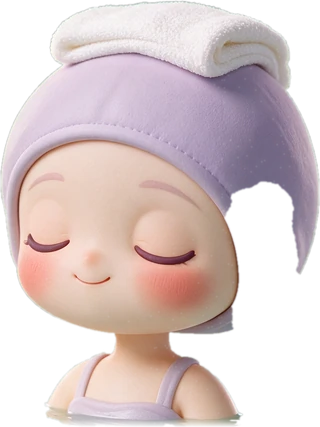
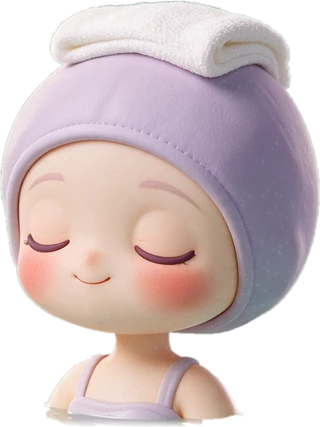
Keepers on open floor and in the depth order; Mind ends a soak; the hood whole
Codex HOLD on the shopkeepers and the soak (22 Oct), five P2s:
- Coach Ren, Hana, Ben and Ms Clara stood on scenery (the banister base, the window trim beside a spare pet spot, the
  display platform, the sofa). Each now stands on open floor, every candidate composited on its plate at full size and
  checked by eye: Ren in front of the rolled yoga mats, Hana between the rug and the foot of the stairs, Ben on the rug's
  front-left clear of the bench's stock, Ms Clara in front of the rug by the way in. Each has a walking block.
- Keepers join the depth sort by their feet (never as a second solid; the block is in the layout) and rank themselves
  when drawn, so she and the stock pass in front of and behind them.
- Opening Mind (or the garden bench) emits the activity event, so a soak or a sit by the water ends first.
- Keyboard focus on a keeper the view does not show brings it into view, as for a pin or a prop.
- The tudung soak picture re-cut with the hood's lavender kept as hers; the first cut bit into its right flap.
Tests: every keeper's feet on the drawn floor, outside the furniture, at least 3 from every place she stands (the
stock's stand points too) and never taking away the way to any stock (checked against the old spots: it flags three of
the four); browser checks for the depth order both ways at the grocer and for Mind ending a soak; the soak check waits
for her picture's 0.6 s fade instead of reading it mid-fade.

diff --git a/ovu-keepers.js b/ovu-keepers.js
@@ -9,17 +9,17 @@
   var KEEPERS = {
     'lane-grocer': { id: 'grocer', name: 'Auntie Lin', role: 'the grocer', img: 'keeper-grocer.webp', x: 36, y: 60.5, flip: false, block: { x0: 32, x1: 40, y0: 57.5, y1: 62 },
       lines: ['The kangkong came in fresh this morning.', 'Rice, tofu, garlic, coconut: whatever your kitchen needs.', 'Take your time. Shopping slowly is a nice way to spend a minute.', 'Seeds swap at the rack; a good trade is a happy trade.'] },
-    'lane-boutique': { id: 'boutique', name: 'Mira', role: 'the boutique owner', img: 'keeper-boutique.webp', x: 19.5, y: 69.5, flip: false, block: null, /* in the fitting alcove before its curtain, a fitting assistant (by the counter she stood on the stairs) */
+    'lane-boutique': { id: 'boutique', name: 'Mira', role: 'the boutique owner', img: 'keeper-boutique.webp', x: 19.5, y: 69.5, flip: false, block: null, alcove: true, /* in the fitting alcove before its curtain, a fitting assistant (by the counter she stood on the stairs) */
       lines: ['Try anything on. The mirror here is a kind one.', 'Every outfit on the rails comes in your size.', 'New arrivals come in as soon as they are sewn.', 'That colour suits you.'] },
-    'lane-gym': { id: 'gym', name: 'Coach Ren', role: 'the gym coach', img: 'keeper-gym.webp', x: 57.5, y: 60, flip: true, block: { x0: 55.5, x1: 59.5, y0: 58.5, y1: 61.5 }, /* on the floor before the stairs, not on the bottom step */
+    'lane-gym': { id: 'gym', name: 'Coach Ren', role: 'the gym coach', img: 'keeper-gym.webp', x: 40.5, y: 53.2, flip: false, block: { x0: 38.5, x1: 42.5, y0: 51.8, y1: 54.6 }, /* on the floor in front of the rolled yoga mats, between the little plant and the rolls (the old spot had his feet on the banister's base, Codex 22 Oct) */
       lines: ['Move at your own pace. Nothing here counts unless you log it.', 'Water break whenever you like.', 'Rest days are part of training too.', 'The mats are free. So is the stretching.'] },
     'lane': { id: 'fish', name: 'Uncle Hamid', role: 'the tackle seller', img: 'keeper-fish.webp', wk: 1.22, x: 60, y: 77, flip: true, block: { x0: 57.5, x1: 62.5, y0: 75.5, y1: 78.5 }, /* on the grey paving before his shelf, facing the street */
       lines: ['Catch and release only. The fish say thank you.', 'The grouper likes the rocks by the jetty.', 'A slow cast is a good cast.', 'Floats are for looks; the fish do not mind the colour.'] },
-    'shop-pet': { id: 'pet', name: 'Hana', role: 'the pet keeper', img: 'keeper-pet.webp', x: 79, y: 68.5, flip: true, block: { x0: 76.5, x1: 81.5, y0: 66.5, y1: 70 }, /* on the floor under the window, right of the stairs: behind the counter the display bed's pets would hide her */
+    'shop-pet': { id: 'pet', name: 'Hana', role: 'the pet keeper', img: 'keeper-pet.webp', x: 56, y: 71.3, flip: true, block: { x0: 54, x1: 58, y0: 69.8, y1: 72.8 }, /* on the floor between the round rug and the foot of the stairs (under the window she stood on the trim, beside a spare pet spot; behind the counter the display bed's pets would hide her) */
       lines: ['This little one just woke from a nap.', 'Every pet here comes with a cuddle.', 'Treats are in the jars by the till.', 'They all have names already, but you can change them.'] },
-    'shop-furniture': { id: 'furniture', name: 'Ben', role: 'the furniture maker', img: 'keeper-furniture.webp', x: 30.5, y: 65.5, flip: false, block: null,
+    'shop-furniture': { id: 'furniture', name: 'Ben', role: 'the furniture maker', img: 'keeper-furniture.webp', x: 44, y: 70.5, flip: true, block: { x0: 42, x1: 46, y0: 69, y1: 72 }, /* on the rug's front-left, clear of the display platform he stood on and of the purple bench's stock */
       lines: ['A lamp can change a whole room.', 'Pieces that share a spot swap places. Easy.', 'Sit on anything you like. It is a showroom.', 'I sanded this shelf myself this morning.'] },
-    'shop-homes': { id: 'homes', name: 'Ms Clara', role: 'the homes agent', img: 'keeper-homes.webp', x: 27, y: 69.5, flip: false, block: { x0: 23.5, x1: 30.5, y0: 67, y1: 71.5 },
+    'shop-homes': { id: 'homes', name: 'Ms Clara', role: 'the homes agent', img: 'keeper-homes.webp', x: 46, y: 73, flip: false, block: { x0: 44, x1: 48, y0: 71.5, y1: 74.5 }, /* in front of the rug by the way in, off the sofa and clear of the pedestals' models */
       lines: ['Visit any house first. No rush at all.', 'The bathhouse is lovely at night.', 'Move in when your hearts are ready.', 'Every home has a window for the moon.'] }
   };
   function hello(name, hour) { return (hour < 12 ? 'Good morning' : hour < 18 ? 'Good afternoon' : 'Good evening') + '! I am ' + name + '.'; }
@@ -56,6 +56,7 @@
     el.innerHTML = '<img src="' + ART + k.img + '" alt="" draggable="false"><span class="keepsay" aria-hidden="true"></span>';
     el.addEventListener('click', function (e) { e.stopPropagation(); e.preventDefault(); say(el, k); });
     wrap.appendChild(el);
+    if (root.OvuWalk && root.OvuWalk.sortDepth) root.OvuWalk.sortDepth(); /* ranked by its feet with her, the pets and the stock (Codex, 22 Oct) */
     if (!doc.getElementById('keeperLive')) { var lv = doc.createElement('div'); lv.id = 'keeperLive'; lv.className = 'sr-only'; lv.setAttribute('aria-live', 'polite'); doc.body.appendChild(lv); }
   }
   K.render = render;

diff --git a/tools/test-core.js b/tools/test-core.js
@@ -3817,6 +3817,29 @@ var summarised = false;
     starts.forEach(function (a) { targets.forEach(function (t) { if (!(Math.abs(a.x - t.x) < 0.01 && Math.abs(a.y - t.y) < 0.01) && !K.plan(wd, a, t, 2)) trouble.push(id + ' cannot reach ' + t.x + ',' + t.y); }); });
   });
   check('with each keeper\'s floor taken, every stand point, home and door of that store is still on the floor, outside every solid, and reachable from the way in', trouble.length === 0, trouble.join(' | '));
+  /* Codex (22 Oct): four keepers stood on scenery (a banister base, a window trim, a sofa, a display platform). Each keeper's
+   * feet must be on the drawn floor, outside every piece of furniture, and clear of every place she stands, the stock's
+   * stand points included; with the keeper's block taken, she still reaches every piece of stock from the way in */
+  var footing = [];
+  ids.forEach(function (id) {
+    var k = KP.KEEPERS[id], L0 = lay(id), L = JSON.parse(JSON.stringify(L0)), wd0 = K.world(L0, []);
+    /* an alcove keeper (the boutique's fitting alcove) stands on drawn floor outside the walkable floor, so needs no block */
+    if (k.alcove ? K.inZones(wd0.zones, k.x, k.y) : !K.inZones(wd0.zones, k.x, k.y)) footing.push(id + (k.alcove ? ' alcove keeper on the walkable floor without a block' : ' feet off the floor'));
+    if (K.blocked((L0.solids || []).filter(function (s) { return s.id !== 'keeper'; }), k.x, k.y)) footing.push(id + ' feet inside furniture');
+    if (!k.block && !k.alcove) footing.push(id + ' has no block: she would walk through');
+    var stands = (L0.hotspots || []).filter(function (h) { return h.wp; }).map(function (h) { return h.wp; }).concat([L0.home]).concat(L0.doors || []), stock = [];
+    (function walk(o) { if (Array.isArray(o)) o.forEach(function (s) { if (s && s.wp) stock.push(s.wp); }); else if (o && typeof o === 'object') Object.keys(o).forEach(function (q) { walk(o[q]); }); })(L0.spots);
+    stands.concat(stock).forEach(function (p) { if (Math.hypot(p.x - k.x, p.y - k.y) < 3) footing.push(id + ' within 3 of where she stands at ' + p.x + ',' + p.y); });
+    if (k.block) L.solids = (L.solids || []).filter(function (s) { return s.id !== 'keeper'; }).concat([Object.assign({ id: 'keeper' }, k.block)]);
+    var wd = K.world(L, []), starts = (L.doors && L.doors.length ? L.doors : [L.home]).map(function (x) { return { x: x.x, y: x.y }; });
+    /* compared with the same store without its keeper: the planner here does not climb the stairs (the room walks those
+     * itself), so a gallery stand point counts only if the keeper is what takes it away */
+    var reach = function (w, a, t) { var pl = K.plan(w, a, t, 2), end = pl && pl.pts[pl.pts.length - 1]; return !!end && Math.hypot(end.x - t.x, end.y - t.y) <= 1; };
+    stock.forEach(function (t) { if (K.blocked(wd.solids, t.x, t.y)) footing.push(id + ' stock stand point ' + t.x + ',' + t.y + ' inside a solid'); starts.forEach(function (a) { if (reach(wd0, a, t) && !reach(wd, a, t)) footing.push(id + ' takes away the way to the stock at ' + t.x + ',' + t.y); }); });
+  });
+  check('every keeper\'s feet are on the drawn floor, outside the furniture, at least 3 from every place she stands (the stock\'s stand points too), and with the keeper there she still reaches every piece of stock (Codex, 22 Oct)', footing.length === 0, footing.join(' | '));
+  var wsrc = fs.readFileSync(path.join(root, 'ovu-walk.js'), 'utf8'), csrc = fs.readFileSync(path.join(root, 'ovu-camera.js'), 'utf8'), rmsrc = fs.readFileSync(path.join(root, 'room.js'), 'utf8');
+  check('keepers join the depth sort by their feet (never as a second solid: the block is in the layout) and rank themselves when drawn; keyboard focus on one brings it into view; opening Mind or the bench is an activity, so a soak or a sit by the water ends first (Codex, 22 Oct)', /#ownedProps \.keeper, #plateOcc/.test(wsrc) && /!el\.classList\.contains\('keeper'\)/.test(wsrc) && /wrap\.appendChild\(el\);\n    if \(root\.OvuWalk && root\.OvuWalk\.sortDepth\) root\.OvuWalk\.sortDepth\(\);/.test(fs.readFileSync(path.join(root, 'ovu-keepers.js'), 'utf8')) && /closest\('\.hotspot,\.nb,\.prop\.owned,\.keeper'\)/.test(csrc) && /meditating = true; avatar\.classList\.add\('hidden'\); emit\('activity', 'meditate'\);/.test(rmsrc));
   var k0 = KP.KEEPERS['lane-grocer'], r1 = KP.nextLine(k0, null, '2026-10-22', 9), r2 = KP.nextLine(k0, r1.mem, '2026-10-22', 9), r3 = KP.nextLine(k0, r2.mem, '2026-10-22', 9), r4 = KP.nextLine(k0, r3.mem, '2026-10-23', 20);
   check('a tap says hello first each day (by the hour), then the shop\'s own lines in turn, and a new day says hello again', r1.text === 'Good morning! I am ' + k0.name + '.' && r2.text === k0.lines[0] && r3.text === k0.lines[1] && r4.text === 'Good evening! I am ' + k0.name + '.' && KP.hello('X', 14) === 'Good afternoon! I am X.');
   var ksrc = fs.readFileSync(path.join(root, 'ovu-keepers.js'), 'utf8');

diff --git a/ovu-walk.js b/ovu-walk.js
@@ -255,9 +255,9 @@
   var INTERACTIVE = '.hotspot,.avatar,.prop.owned.pet,.prop.owned.tool,.poop,.nb,.camctl,.topbar,.chip,.bubble,.visitbar,.propctl,.minimap,.hud,.sleeper,.meditator,.holo,.phase-chip,.greeting,.hint,button,a,input,textarea,select,label';
 
   /* a foreground cutout (.plate-occ) is ranked by its base, not its top edge, and is never a solid: its object's solid is
-   * already in the layout */
+   * already in the layout. A shopkeeper (.keeper) is ranked by its feet and is not a solid either: its block is in the layout */
   function sprites() {
-    return Array.prototype.slice.call(doc.querySelectorAll('#ownedProps .prop.owned, #ownedProps .nb, #ownedProps .plot, #plateOcc .plate-occ')).map(function (el) { var occ = el.classList.contains('plate-occ'); return { el: el, id: el.dataset.id, x: parseFloat(el.style.left), y: parseFloat(occ ? el.dataset.base : el.style.top), w: parseFloat(el.style.width) || 8, solid: !occ && !el.classList.contains('plot') }; }).filter(function (p) { return isFinite(p.x) && isFinite(p.y); });
+    return Array.prototype.slice.call(doc.querySelectorAll('#ownedProps .prop.owned, #ownedProps .nb, #ownedProps .plot, #ownedProps .keeper, #plateOcc .plate-occ')).map(function (el) { var occ = el.classList.contains('plate-occ'); return { el: el, id: el.dataset.id, x: parseFloat(el.style.left), y: parseFloat(occ ? el.dataset.base : el.style.top), w: parseFloat(el.style.width) || 8, solid: !occ && !el.classList.contains('plot') && !el.classList.contains('keeper') }; }).filter(function (p) { return isFinite(p.x) && isFinite(p.y); });
   }
   /* the layout's foreground cutouts (L.occluders; only the wide street has any). They live in #plateOcc, a layer of their own
    * beside #ownedProps with no stacking context, so the one depth sort covers them with her and the pets, while a props

diff --git a/room.js b/room.js
@@ -2229,7 +2229,7 @@
   function sleepSrc(o) { return ART + (o === 'pajamas' ? 'avatar-sleeping.webp' : 'avatar-sleeping-' + o + '.webp'); }
   function wearImg(img, src, plain) { if (!img) return; img.onerror = function () { img.onerror = null; img.src = plain; }; if (img.getAttribute('src') !== src) img.src = src; }
   function enterMeditation() {
-    endTryOn(true); endMoment(); meditating = true; avatar.classList.add('hidden'); if (window.OvuSound) OvuSound.play('sit');
+    endTryOn(true); endMoment(); meditating = true; avatar.classList.add('hidden'); emit('activity', 'meditate'); /* a soak or a sit by the water ends first (Codex, 22 Oct) */ if (window.OvuSound) OvuSound.play('sit');
     if (!meditator.classList.contains('onseat')) wearImg(meditator.querySelector('img'), meditateSrc(wornOutfit()), ART + 'avatar-meditate.webp'); /* a bench keeps her seated sprite */
     clearTimeout(medTimer); medTimer = setTimeout(function () { if (meditating) { meditator.classList.add('on'); $('#aura').classList.add('on'); } }, 350);
   }

diff --git a/ovu-camera.js b/ovu-camera.js
@@ -129,7 +129,7 @@
     scene.addEventListener('scroll', function () { if (scene.scrollLeft || scene.scrollTop) { scene.scrollLeft = 0; scene.scrollTop = 0; } });
     /* keyboard focus on a pin the view does not show (along a wide plate, or zoomed in): bring it into view and hold there */
     inner.addEventListener('focusin', function (e) {
-      var b = e.target && e.target.closest && e.target.closest('.hotspot,.nb,.prop.owned'); if (!b) return;
+      var b = e.target && e.target.closest && e.target.closest('.hotspot,.nb,.prop.owned,.keeper'); if (!b) return;
       var sr = scene.getBoundingClientRect(), r = b.getBoundingClientRect();
       if (r.left >= sr.left && r.right <= sr.right && r.top >= sr.top && r.bottom <= sr.bottom) return;
       var f = { x: parseFloat(b.style.left), y: parseFloat(b.style.top) }; if (!isFinite(f.x) || !isFinite(f.y)) return;

diff --git a/tools/e2e_smoke.py b/tools/e2e_smoke.py
@@ -1855,10 +1855,24 @@ async def main():
             try: await page.wait_for_function("()=>OvuSoak.soaking()", timeout=12000)
             except Exception: pass
             await page.wait_for_timeout(300)
+            try: await page.wait_for_function("()=>getComputedStyle(document.querySelector('#avatar')).opacity === '0'", timeout=3000)
+            except Exception: pass
             sk = await page.evaluate("()=>{var e=document.querySelector('#ownedProps .soaker'), a=document.querySelector('#avatar'); return {on: OvuSoak.soaking(), img: e ? e.querySelector('img').getAttribute('src').split('/').pop() : null, loaded: !!(e && e.querySelector('img').naturalWidth>0), hidden: getComputedStyle(a).opacity === '0', stop: !!document.querySelector('#soakStop'), d: OvuStore.list().length, st: JSON.stringify(OvuStore.state().stamina)}}")
-            await page.evaluate("()=>{var b=document.querySelector('#soakStop'); if(b) b.click()}"); await page.wait_for_timeout(300)
+            await page.evaluate("()=>{var b=document.querySelector('#soakStop'); if(b) b.click()}")
+            try: await page.wait_for_function("()=>getComputedStyle(document.querySelector('#avatar')).opacity === '1'", timeout=3000)
+            except Exception: pass
             sk2 = await page.evaluate("()=>({on: OvuSoak.soaking(), shown: getComputedStyle(document.querySelector('#avatar')).opacity !== '0', stop: !!document.querySelector('#soakStop'), d: OvuStore.list().length, st: JSON.stringify(OvuStore.state().stamina)})")
             check("the warm water: she soaks with only her head and shoulders above the water and a towel on her head; her standing picture is hidden; Get out brings her back; nothing is counted", sk["on"] and sk["img"] in ("soak-base.webp", "soak-tudung.webp") and sk["loaded"] and sk["hidden"] and sk["stop"] and not sk2["on"] and sk2["shown"] and not sk2["stop"] and sk2["d"] == sk["d"] and sk2["st"] == sk["st"], [sk, sk2])
+            # Mind while soaking (Codex, 22 Oct): opening the mat ends the soak first, so she is never in the water and on the mat at once
+            await page.evaluate("()=>OvuRoom.tap(OvuRoom.hotspot('springsoak'))")
+            try: await page.wait_for_function("()=>OvuSoak.soaking()", timeout=12000)
+            except Exception: pass
+            sm0 = await page.evaluate("()=>OvuSoak.soaking()")
+            await page.evaluate("()=>document.querySelector('nav a[data-tab=mind]').click()"); await page.wait_for_timeout(700)
+            sm = await page.evaluate("()=>({soak: OvuSoak.soaking(), med: OvuRoom.meditating(), stop: !!document.querySelector('#soakStop'), soaker: !!document.querySelector('#ownedProps .soaker'), cls: document.querySelector('#scene').classList.contains('soaking')})")
+            await page.evaluate("()=>OvuRoom.closeSheet()"); await page.wait_for_timeout(400)
+            sm2 = await page.evaluate("()=>({med: OvuRoom.meditating()})")
+            check("opening Mind while she soaks ends the soak first: the mat opens, the water picture and Get out are gone, and closing Mind lets her up", sm0 and not sm["soak"] and sm["med"] and not sm["stop"] and not sm["soaker"] and not sm["cls"] and not sm2["med"], [sm0, sm, sm2])
             # the hidden spring (21 Oct): sitting by the water is the tone; one Stop for both; no diary, no hearts, no energy
             await page.evaluate("()=>OvuRoom.tap(OvuRoom.hotspot('warmstone'))")
             try: await page.wait_for_function("()=>OvuRoom.sheetOpen() && OvuRoom.sheetId && OvuRoom.sheetId()==='cavetones'", timeout=12000)
@@ -2009,6 +2023,12 @@ async def main():
             # the grocer's keeper (22 Oct): at her height by the counter; a tap says hello in a bubble and to screen readers
             kp = await page.evaluate("()=>{var k=document.querySelector('#ownedProps .keeper'); if(!k) return null; k.click(); var r=k.getBoundingClientRect(), a=document.querySelector('#avatar').getBoundingClientRect(); return {id: k.dataset.id, h: r.height, ah: a.height, loaded: k.querySelector('img').naturalWidth>0, saying: k.classList.contains('saying'), line: k.querySelector('.keepsay').textContent, live: (document.getElementById('keeperLive')||{}).textContent||'', label: k.getAttribute('aria-label')}}")
             check("Hay & Harvest has its keeper by the counter at her height; a tap says hello in a bubble and for screen readers", kp and kp["id"] == "keeper-grocer" and kp["loaded"] and abs(kp["h"] - kp["ah"]) < 1.5 and kp["saying"] and kp["line"].startswith("Good ") and kp["line"] in kp["live"] and "Tap to say hello" in kp["label"], kp)
+            # depth (Codex, 22 Oct): at the door she is lower on the floor than Auntie Lin and draws in front of her; at the rack she is higher and draws behind
+            DZ = "()=>{var k=document.querySelector('#ownedProps .keeper'), a=document.querySelector('#avatar'); return {kz: +k.style.zIndex, az: +a.style.zIndex, ky: parseFloat(k.style.top), ay: OvuRoom.pos().y}}"
+            z1 = await page.evaluate(DZ)
+            await lane_sheet('grocerrack'); await page.wait_for_timeout(300); z2 = await page.evaluate(DZ)
+            await page.evaluate("()=>OvuRoom.hideSheet()"); await page.wait_for_timeout(300)
+            check("Auntie Lin stands in the depth order by her feet: at the door she draws in front of her, at the rack behind her", z1["kz"] >= 2 and z1["ay"] > z1["ky"] and z1["az"] > z1["kz"] and z2["ay"] < z2["ky"] and z2["az"] < z2["kz"], [z1, z2])
             gc = await lane_sheet('grocercounter')
             await page.click('#sheet[aria-hidden="false"] [data-lane=back]'); await page.wait_for_timeout(400)
             gb = await page.evaluate("()=>({open: OvuRoom.sheetOpen(), layout: document.querySelector('#scene').dataset.layout})")
